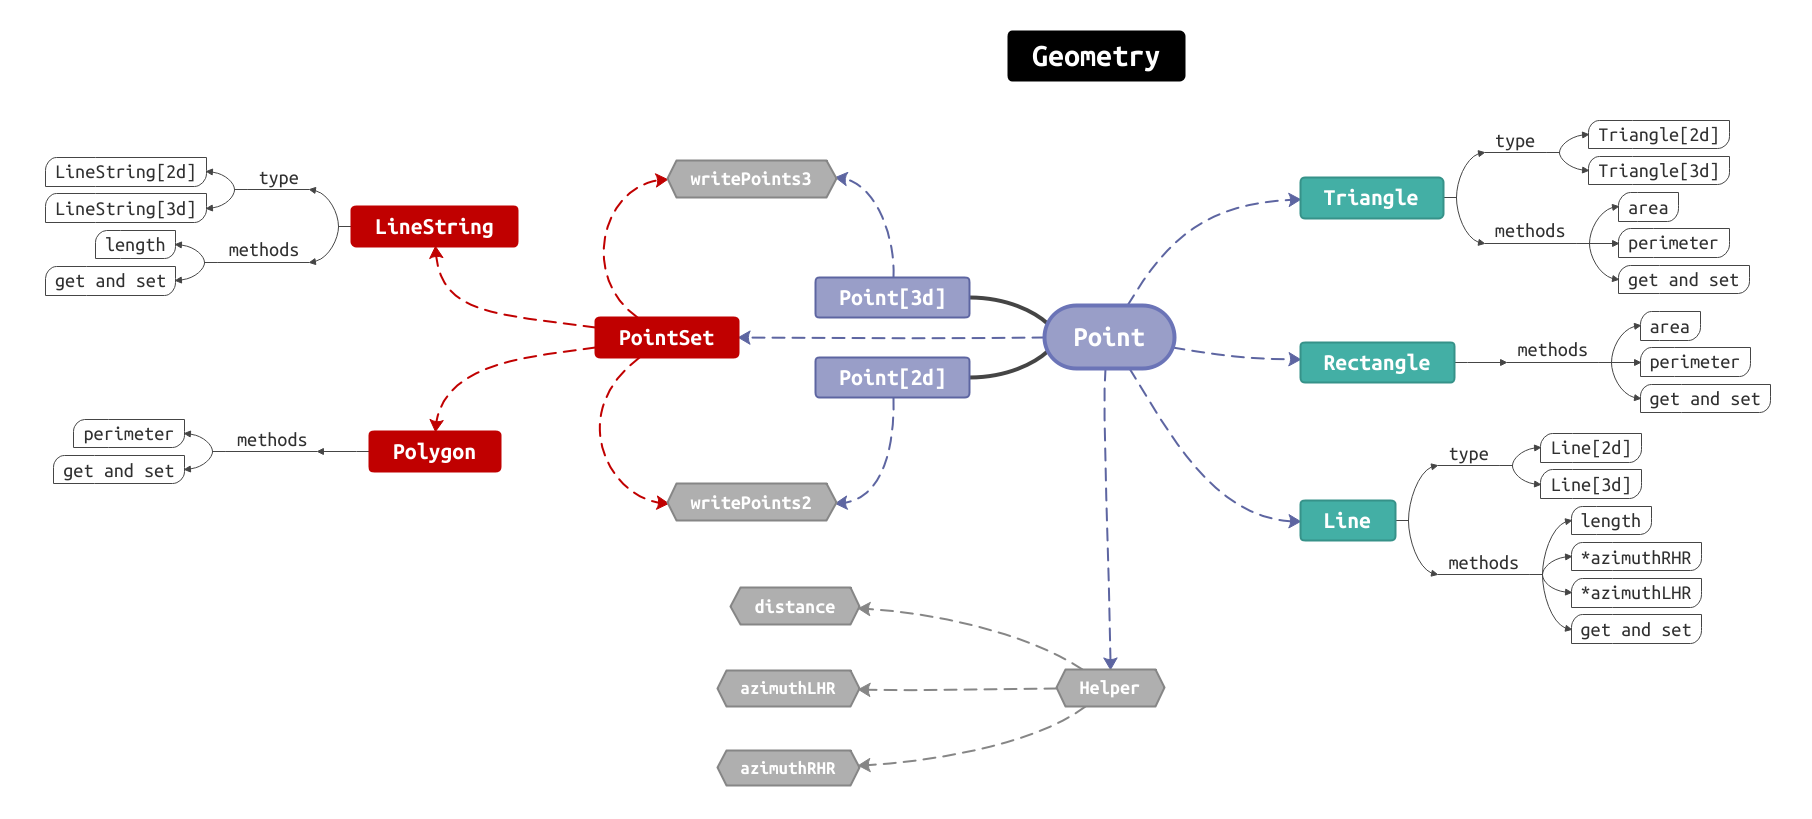
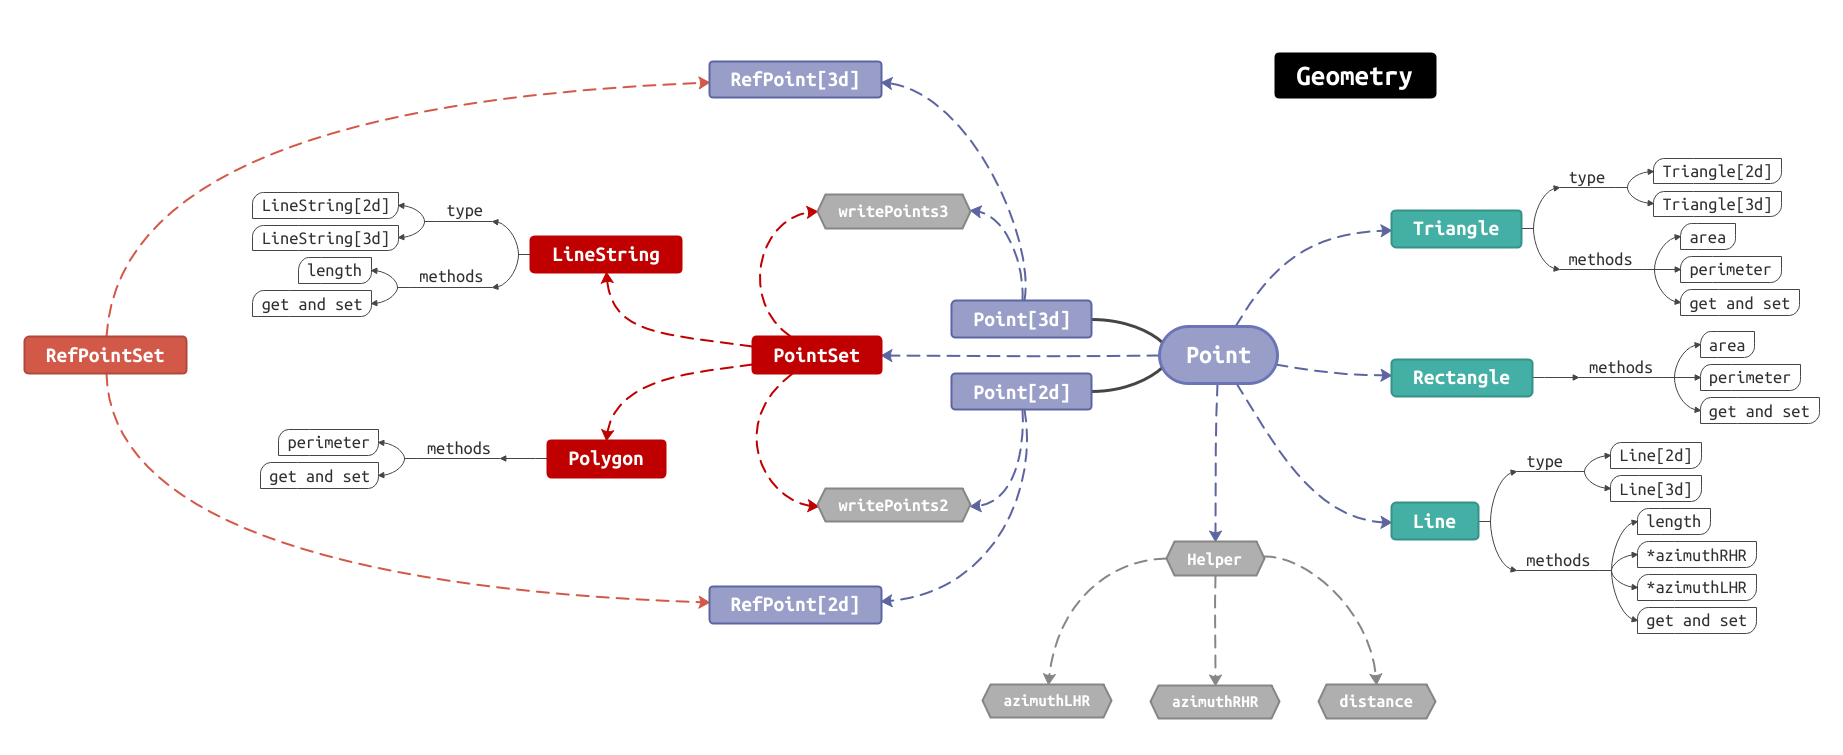
add refpointset

diff --git a/include/point.hpp b/include/point.hpp
@@ -7,7 +7,9 @@
  *              1. Point2f, Point3f
  *              2. Point2d, Point3d
  *              3. Point2i, Point3i
- *              4. RefPoint2<>, RefPoint3<>
+ *              4. PointSet<>
+ *              5. RefPoint2<>, RefPoint3<>
+ *              6. RefPointSet<>
  * 
  *       [2] methods
  *              0. writeBinaryData, readBinaryData
@@ -26,6 +28,7 @@
 #include <algorithm>
 #include <array>
 #include <vector>
+#include <unordered_map>
 
 namespace ns_geo
 {
@@ -352,7 +355,7 @@ namespace ns_geo
         id_type _id;
 
     public:
-        RefPoint2() = delete;
+        RefPoint2() = default;
         RefPoint2(id_type id, value_type x, value_type y)
             : _id(id), Point2<_Ty>(x, y) {}
         RefPoint2(id_type id, const ary_type &p)
@@ -385,7 +388,7 @@ namespace ns_geo
         id_type _id;
 
     public:
-        RefPoint3() = delete;
+        RefPoint3() = default;
         RefPoint3(id_type id, value_type x, value_type y, value_type z)
             : _id(id), Point3<_Ty>(x, y, z) {}
         RefPoint3(id_type id, const ary_type &p)
@@ -406,5 +409,36 @@ namespace ns_geo
     using RefPoint3f = RefPoint3<float>;
     using RefPoint3d = RefPoint3<double>;
     using RefPoint3i = RefPoint3<int>;
+#pragma endregion
+
+#pragma region RefPointSet
+    template <typename _PointType,
+              typename _Hash = std::hash<uint>,
+              typename _Pred = std::equal_to<uint>,
+              typename _Alloc = std::allocator<std::pair<const uint, _PointType>>>
+    class RefPointSet : public std::unordered_map<uint, _PointType, _Hash, _Pred, _Alloc>
+    {
+    public:
+        using point_type = _PointType;
+        using container_type = std::unordered_map<uint, _PointType, _Hash, _Pred, _Alloc>;
+        using container_type::container_type;
+
+        auto insertRefp(const point_type &p)
+        {
+            return this->insert(std::make_pair(p.id(), p));
+        }
+
+        /**
+         * \brief dangerous function has been deleted
+         */ 
+        _PointType &operator[](const uint &id) = delete;
+    };
+
+    using RefPointSet2i = RefPointSet<RefPoint2i>;
+    using RefPointSet2f = RefPointSet<RefPoint2f>;
+    using RefPointSet2d = RefPointSet<RefPoint2d>;
+    using RefPointSet3i = RefPointSet<RefPoint3i>;
+    using RefPointSet3f = RefPointSet<RefPoint3f>;
+    using RefPointSet3d = RefPointSet<RefPoint3d>;
 #pragma endregion
 } // namespace ns_geo

diff --git a/readme.md b/readme.md
@@ -260,4 +260,27 @@ void foo_refpoint()
 }
 ```
 
+### <kbd>__RefPointSet<_Ty>___</kbd>  
+
+```cpp
+void foo_refpointset()
+{
+    double ary2[2] = {2, 3};
+    RefPoint2d p1(0, RefPoint2d::ary_type{0, 0});
+    RefPoint2d p2(1, ary2);
+    RefPoint2d p3(2, RefPoint2d::ary_type{0, 0});
+    RefPoint2d p4(4, ary2);
+    RefPointSet2d set;
+    auto iter = set.insert(std::make_pair(p1.id(), p1));
+    set.insertRefp(p2);
+    set.insertRefp(p4);
+    set.insertRefp(p3);
+    set.insertRefp(p3);
+
+    for (const auto &refp : set)
+        std::cout << refp.second << std::endl;
+    std::cout << set.size() << std::endl;
+}
+```
+
 For other implementation details, please refer to the source code.
